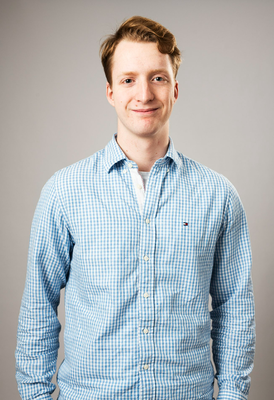
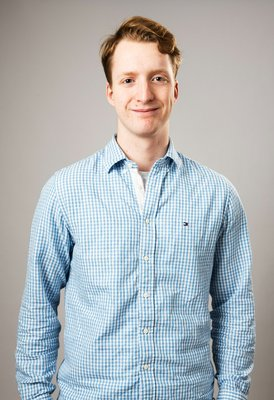
Convert PNG team portraits to JPEG (1.9 MB → 0.24 MB, 88% smaller)
Re-encoded 13 referenced PNG-content portraits as JPEG q=85 (white-flattening
any alpha). 12 files renamed .png → .jpg with the YAML refs updated; one
mislabeled .jpeg-extension file (Huiting_Sven_CDAC.jpeg) had its bytes
re-encoded in place.

Adds normalize_photo() to sync_team_service_account.py: when the photo
filename from the Google Sheet doesn't exist on disk, it falls back to the
same stem with an alternate image extension. This means the next nightly
team sync won't revert the .png references — no manual edits to the team
Sheet's Photo column are needed.

diff --git a/sync_team_service_account.py b/sync_team_service_account.py
@@ -55,19 +55,37 @@ def fetch_sheet_data(service):
     
     return data
 
+def normalize_photo(photo):
+    """If the referenced photo file doesn't exist but a same-stem file with a
+    different image extension does, return that name. Lets us rename files in
+    images/teampic/ (e.g. .png → .jpg) without needing to edit the source
+    Google Sheet."""
+    if not photo:
+        return photo
+    teampic_dir = os.path.join('images', 'teampic')
+    if os.path.exists(os.path.join(teampic_dir, photo)):
+        return photo
+    base, _ = os.path.splitext(photo)
+    for alt_ext in ('.jpg', '.jpeg', '.JPG', '.JPEG', '.png', '.PNG', '.webp'):
+        alt = base + alt_ext
+        if os.path.exists(os.path.join(teampic_dir, alt)):
+            return alt
+    return photo  # leave as-is if nothing better found
+
+
 def format_team_member(row):
     """Format a row from sheets into YAML structure."""
     member = {}
-    
+
     # Handle name with optional link
     if row.get('Link'):
         member['name'] = f'<a href="{row["Link"]}">{row["Name"]}<a/>'
     else:
         member['name'] = row['Name']
-    
+
     # Add other fields
     if row.get('Photo'):
-        member['photo'] = row['Photo']
+        member['photo'] = normalize_photo(row['Photo'])
     if row.get('Position'):
         member['info'] = row['Position']
     if row.get('Email'):
